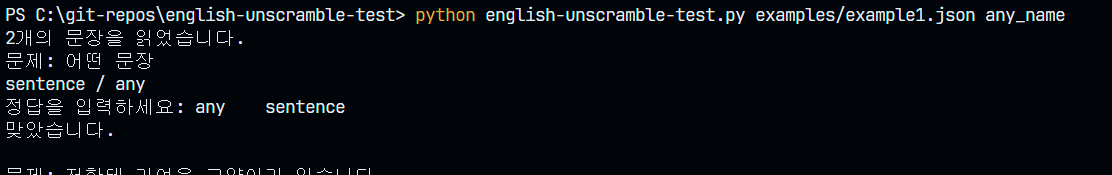
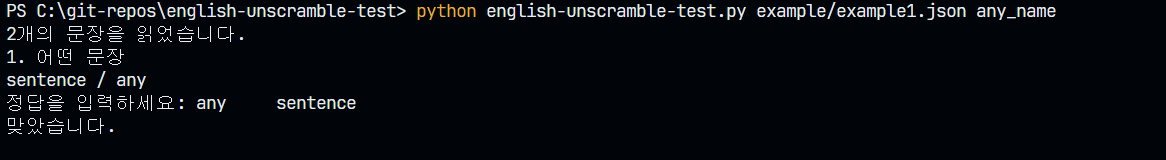
Change question display format to include numbering

diff --git a/english-unscramble-test.py b/english-unscramble-test.py
@@ -50,7 +50,8 @@ def main():
 
         checked_tests: List[sentence_test] = []
         space_pattern = re.compile('\\s+')
-        for sentence_test_ in sentence_tests:
+        for index, sentence_test_ in enumerate(sentence_tests):
+            test_number = index + 1
             words = [w for w in sentence_test_.sentence.split(
                 ' ') if len(w) != 0 and not w.isspace()]
 
@@ -58,7 +59,7 @@ def main():
                 print("입력할 수 있는 단어를 찾지 못했으므로 건너뛰었습니다.")
                 continue
 
-            print("문제: %s" % sentence_test_.korean)
+            print("%d. %s" % (test_number, sentence_test_.korean))
             if not namespace.disable_hint:
                 shuffled_words = words.copy()
                 random.shuffle(shuffled_words)
